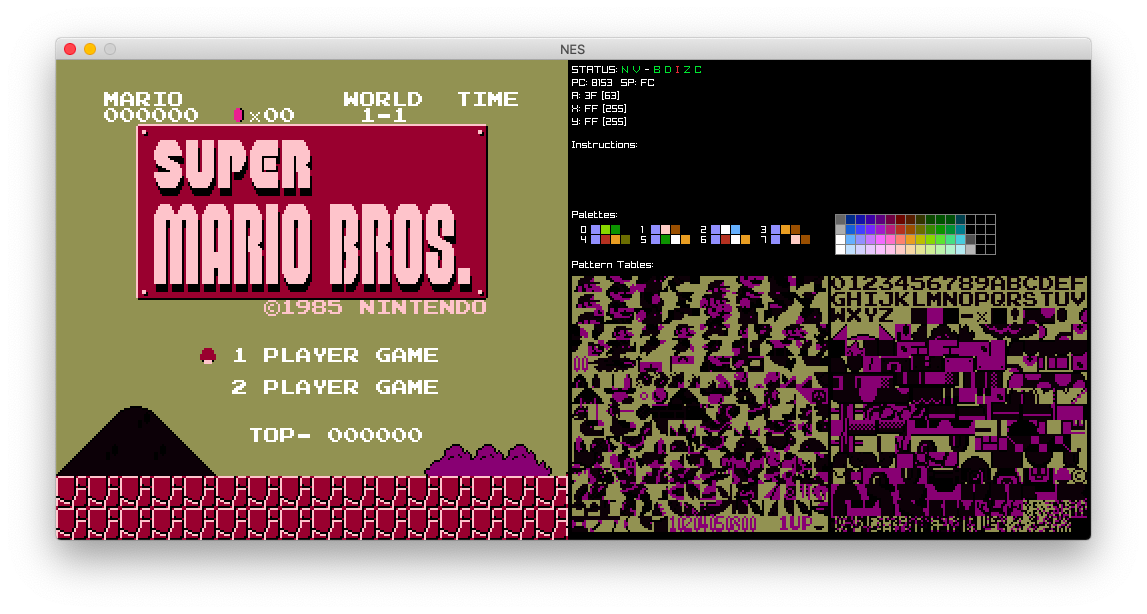
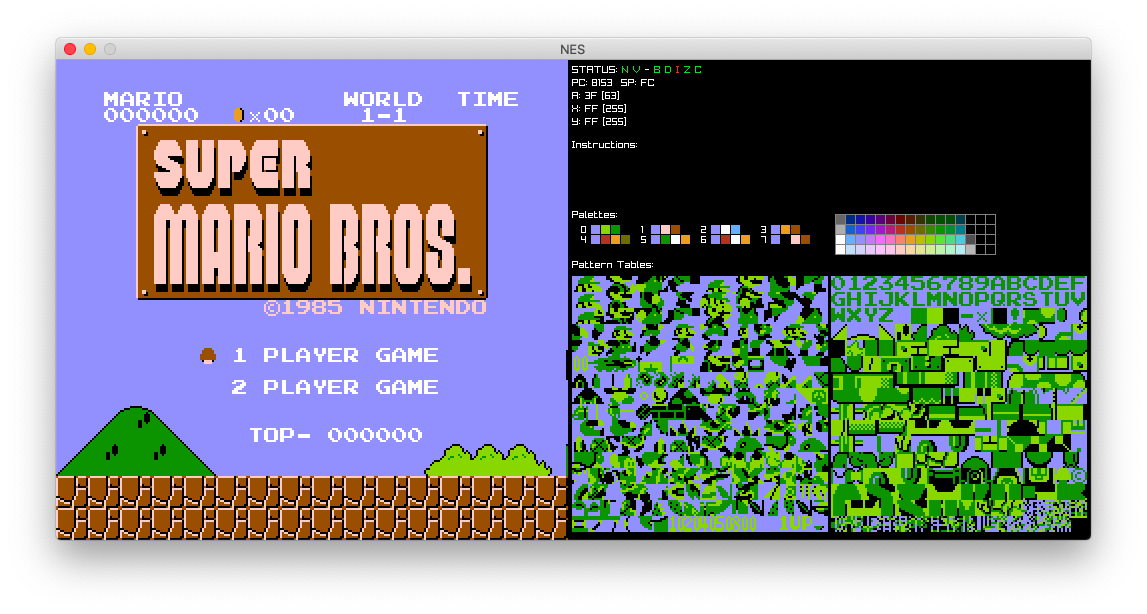
Correct color rendering

diff --git a/README.md b/README.md
@@ -10,7 +10,7 @@ A NES Emulator written in [Crystal](https://crystal-lang.org)
 - [ ] Complete CPU (with unofficial opcodes and tests)
 - [x] Controller
 - [ ] PPU
-  - [ ] Basic background rendering (works but colors are wrong)
+  - [x] Basic background rendering
   - [ ] Sprite rendering
   - [ ] Correct timings
 - [ ] APU
